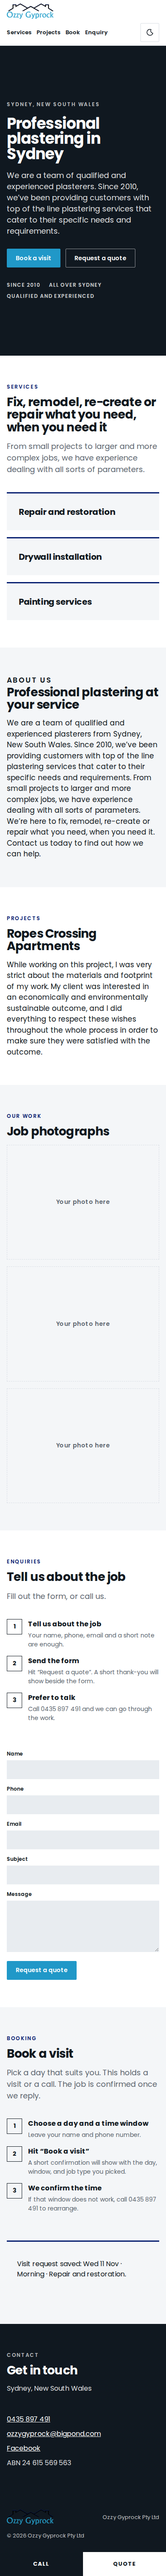
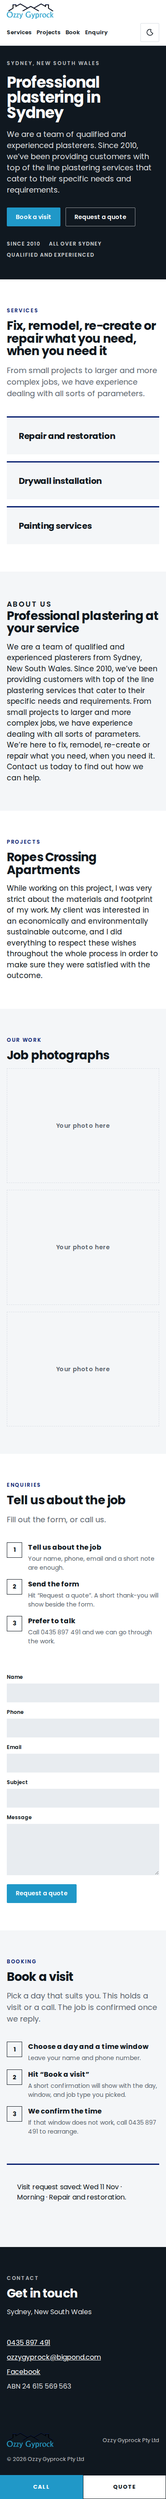
Tighten mobile hero spacing and restyle the Call/Quote bar.
Hero copy starts 32px under the header at small widths, and both phone-bar actions read as equal-width buttons.

diff --git a/wix-embed.html b/wix-embed.html
@@ -111,7 +111,7 @@ html[data-theme="dark"] .theme-toggle:hover{border-color:#C5CEE8;color:#C5CEE8}
 html[data-theme="dark"] .icon-moon{display:none}
 html:not([data-theme="dark"]) .icon-sun{display:none}
 
-.hero{background:var(--hero);color:var(--hero-text)}
+.hero{background:var(--hero);color:var(--hero-text);padding:0}
 .hero-copy{width:min(var(--max),calc(100% - 48px));margin:0 auto;padding:88px 0 80px}
 .eyebrow{font-size:12px;letter-spacing:.16em;text-transform:uppercase;font-weight:600;color:rgba(255,255,255,.72);margin:0 0 18px}
 .hero h1{font-size:clamp(40px,5.4vw,68px);line-height:.98;font-weight:700;letter-spacing:-.03em;margin:0 0 20px;max-width:14ch}
@@ -224,24 +224,41 @@ footer.site img{height:36px;width:auto}
   .theme-toggle{margin-left:auto}
   .wrap,.hero-copy{width:min(var(--max),calc(100% - 32px))}
   section,.contact{padding:64px 0}
-  .hero{min-height:calc(100svh - 64px - 56px)}
+  .hero{
+    min-height:0;
+    padding:0;
+    display:block;
+    align-items:stretch;
+    justify-content:flex-start;
+  }
+  .hero-copy{padding:32px 0 48px;margin-top:0}
   .hero h1{font-size:36px;max-width:none}
   .day-chips,.time-pills,.job-chips{flex-wrap:nowrap;overflow-x:auto;-webkit-overflow-scrolling:touch;scrollbar-width:thin}
   .sticky-call{
     display:flex;flex-wrap:nowrap;align-items:stretch;
     position:fixed;left:0;right:0;bottom:0;z-index:50;
-    background:var(--sticky);
+    background:var(--paper);
     height:56px;max-height:56px;
+    gap:0;
   }
   .sticky-call a{
-    flex:1 1 0;min-height:56px;max-height:56px;
+    flex:1 1 0;width:50%;min-width:0;
+    min-height:56px;max-height:56px;
     display:flex;align-items:center;justify-content:center;
     text-decoration:none;font-weight:700;font-size:13px;
-    letter-spacing:.08em;text-transform:uppercase;color:#fff;
+    letter-spacing:.08em;text-transform:uppercase;
     white-space:nowrap;overflow:hidden;
+    border:1px solid transparent;
   }
-  .sticky-call a+a{border-left:1px solid rgba(255,255,255,.2)}
-  .sticky-call a.quote{background:#fff;color:var(--ink)}
+  .sticky-call a.call{
+    background:var(--blue);color:#fff;border-color:var(--blue);
+  }
+  .sticky-call a.call:hover,.sticky-call a.call:focus-visible{
+    background:var(--blue-deep);border-color:var(--blue-deep);color:#fff;
+  }
+  .sticky-call a.quote{
+    background:#fff;color:var(--ink);border-color:var(--ink);
+  }
   body{padding-bottom:56px}
 }
 @media (prefers-reduced-motion:reduce){
@@ -450,7 +467,7 @@ footer.site img{height:36px;width:auto}
 </footer>
 
 <nav class="sticky-call" aria-label="Phone actions">
-  <a href="tel:+61435897491">Call</a>
+  <a class="call" href="tel:+61435897491">Call</a>
   <a class="quote" href="#enquiry">Quote</a>
 </nav>
 

diff --git a/styles.css b/styles.css
@@ -99,7 +99,7 @@ html[data-theme="dark"] .theme-toggle:hover{border-color:#C5CEE8;color:#C5CEE8}
 html[data-theme="dark"] .icon-moon{display:none}
 html:not([data-theme="dark"]) .icon-sun{display:none}
 
-.hero{background:var(--hero);color:var(--hero-text)}
+.hero{background:var(--hero);color:var(--hero-text);padding:0}
 .hero-copy{width:min(var(--max),calc(100% - 48px));margin:0 auto;padding:88px 0 80px}
 .eyebrow{font-size:12px;letter-spacing:.16em;text-transform:uppercase;font-weight:600;color:rgba(255,255,255,.72);margin:0 0 18px}
 .hero h1{font-size:clamp(40px,5.4vw,68px);line-height:.98;font-weight:700;letter-spacing:-.03em;margin:0 0 20px;max-width:14ch}
@@ -212,24 +212,41 @@ footer.site img{height:36px;width:auto}
   .theme-toggle{margin-left:auto}
   .wrap,.hero-copy{width:min(var(--max),calc(100% - 32px))}
   section,.contact{padding:64px 0}
-  .hero{min-height:calc(100svh - 64px - 56px)}
+  .hero{
+    min-height:0;
+    padding:0;
+    display:block;
+    align-items:stretch;
+    justify-content:flex-start;
+  }
+  .hero-copy{padding:32px 0 48px;margin-top:0}
   .hero h1{font-size:36px;max-width:none}
   .day-chips,.time-pills,.job-chips{flex-wrap:nowrap;overflow-x:auto;-webkit-overflow-scrolling:touch;scrollbar-width:thin}
   .sticky-call{
     display:flex;flex-wrap:nowrap;align-items:stretch;
     position:fixed;left:0;right:0;bottom:0;z-index:50;
-    background:var(--sticky);
+    background:var(--paper);
     height:56px;max-height:56px;
+    gap:0;
   }
   .sticky-call a{
-    flex:1 1 0;min-height:56px;max-height:56px;
+    flex:1 1 0;width:50%;min-width:0;
+    min-height:56px;max-height:56px;
     display:flex;align-items:center;justify-content:center;
     text-decoration:none;font-weight:700;font-size:13px;
-    letter-spacing:.08em;text-transform:uppercase;color:#fff;
+    letter-spacing:.08em;text-transform:uppercase;
     white-space:nowrap;overflow:hidden;
+    border:1px solid transparent;
   }
-  .sticky-call a+a{border-left:1px solid rgba(255,255,255,.2)}
-  .sticky-call a.quote{background:#fff;color:var(--ink)}
+  .sticky-call a.call{
+    background:var(--blue);color:#fff;border-color:var(--blue);
+  }
+  .sticky-call a.call:hover,.sticky-call a.call:focus-visible{
+    background:var(--blue-deep);border-color:var(--blue-deep);color:#fff;
+  }
+  .sticky-call a.quote{
+    background:#fff;color:var(--ink);border-color:var(--ink);
+  }
   body{padding-bottom:56px}
 }
 @media (prefers-reduced-motion:reduce){

diff --git a/index.html b/index.html
@@ -210,7 +210,7 @@
 </footer>
 
 <nav class="sticky-call" aria-label="Phone actions">
-  <a href="tel:+61435897491">Call</a>
+  <a class="call" href="tel:+61435897491">Call</a>
   <a class="quote" href="#enquiry">Quote</a>
 </nav>
 
